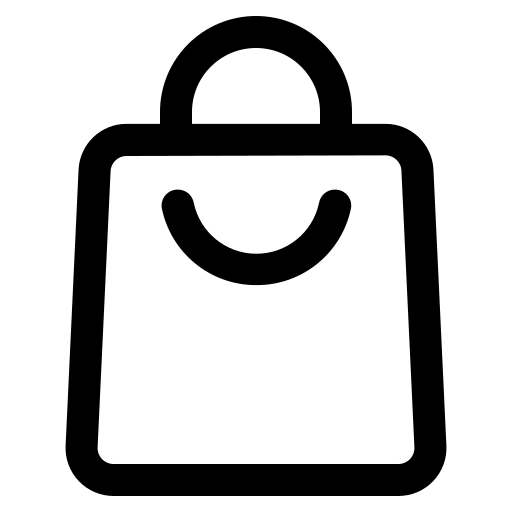
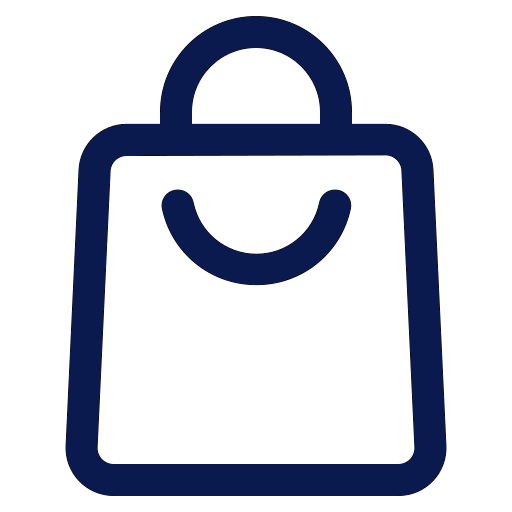
Zmiany kosmetyczne
Zmiana rozmiaru i koloru czcionek i ikonek

Changed region(s): [[0.125, 0.0312, 0.875, 0.9688], [0.3125, 0.375, 0.6875, 0.5625]]

diff --git a/frontend/src/index.css b/frontend/src/index.css
@@ -19,11 +19,11 @@
   display: flex;
   justify-content: space-between;
   align-items: center;
-  padding: 0 7%;
-  height: 70px;
+  padding: 0 2%;
+  height: 120px;
   background-color: #f9faf5; /*kolor paska*/
-  border-bottom: 1px solid #e2e3df;
-  position: sticky;
+  border-bottom: 1px solid #0a1a4e;
+  position: relative;
   top: 0;
   width: 100%;
   box-sizing: border-box;
@@ -39,13 +39,17 @@
 }
 
 .nav-menu {
-  justify-content: center;
+  position: absolute;
+  left: 50%;
+  transform: translateX(-50%);
+
   display: flex;
   list-style: none;
-  gap: 30px;
+  gap: 40px;
   margin: 0;
   padding: 0;
   font-family: "Monaco", sans-serif;
+  font-size: 1.2rem;
 }
 
 .nav-menu a {
@@ -65,11 +69,11 @@
 }
 
 .nav-logo {
-  height: 40px;
+  height: 100px;
 }
 
 .nav-logo img {
-  height: 40px;
+  height: 100px;
   object-fit: contain;
 }
 
@@ -87,7 +91,7 @@
 }
 
 .nav-iconFav-img {
-  width: 24px;
+  width: 40px;
   background: none;
   border: none;
   outline: none;
@@ -95,7 +99,7 @@
 }
 
 .nav-iconCart-img {
-  width: 24px;
+  width: 40px;
   background: none;
   border: none;
   outline: none;
@@ -128,7 +132,7 @@
 
 .divider {
   width: 1px;
-  background-color: #e2e3df;
+  background-color: #0a1a4e;
   height: 100%;
   align-self: center;
 }
